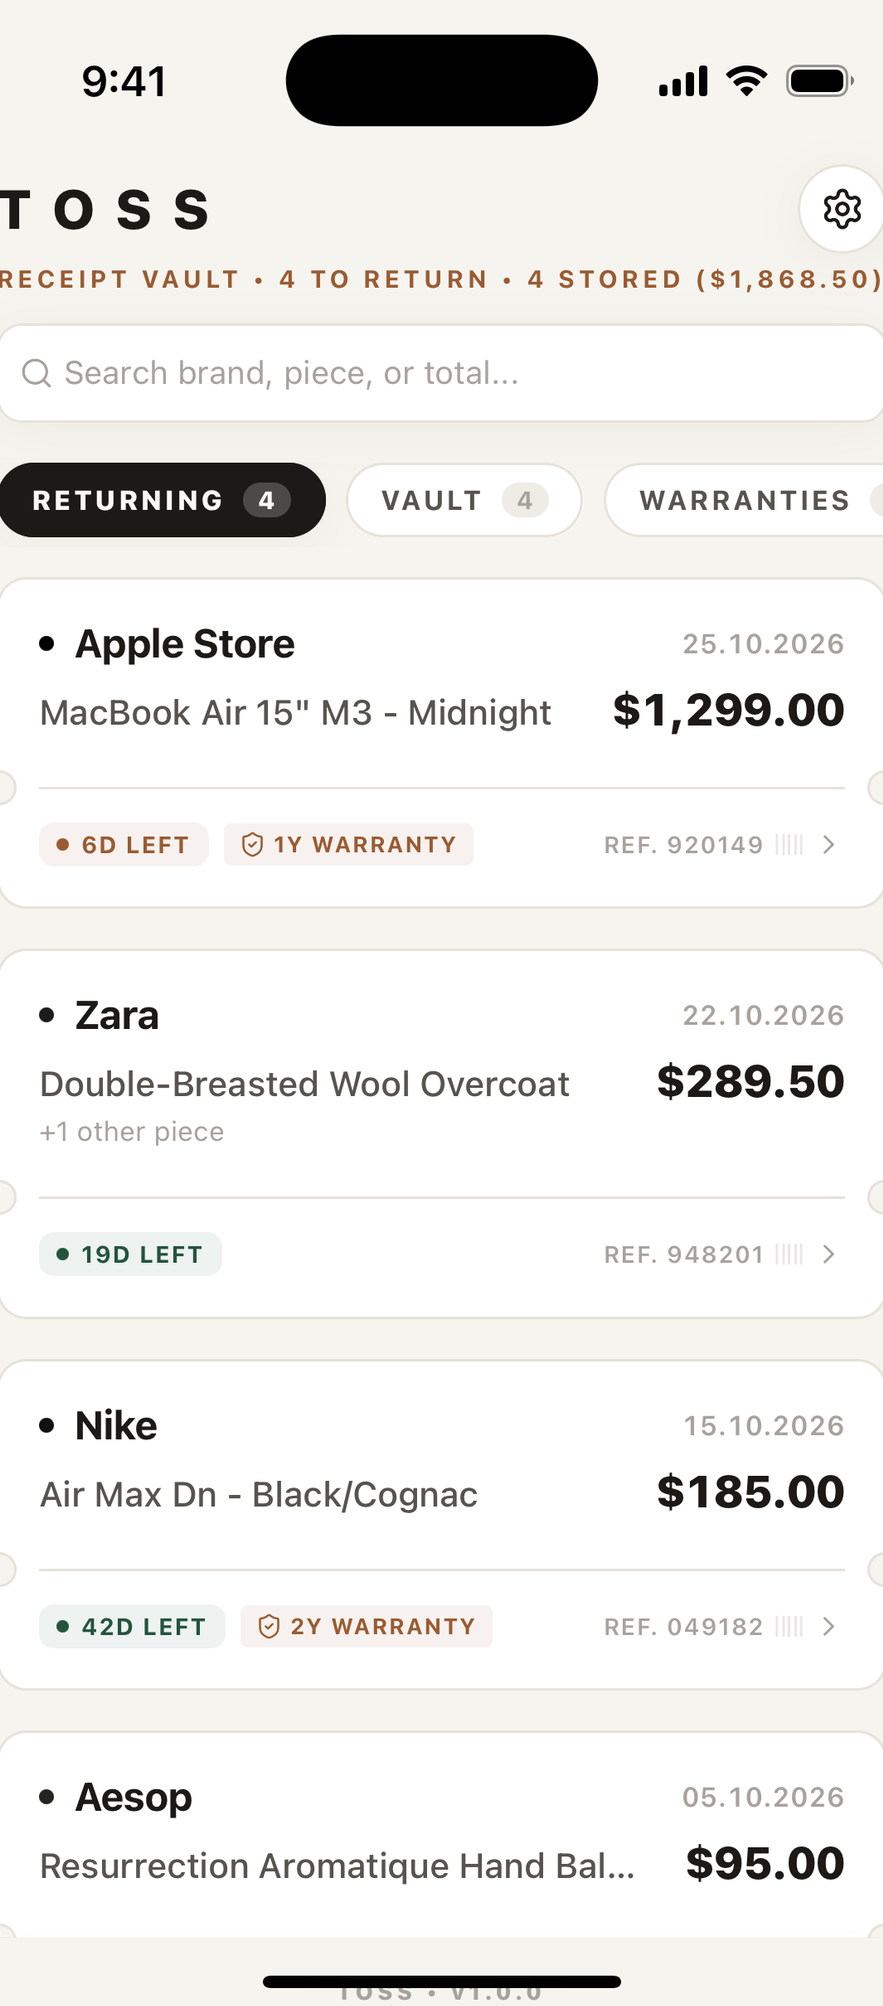
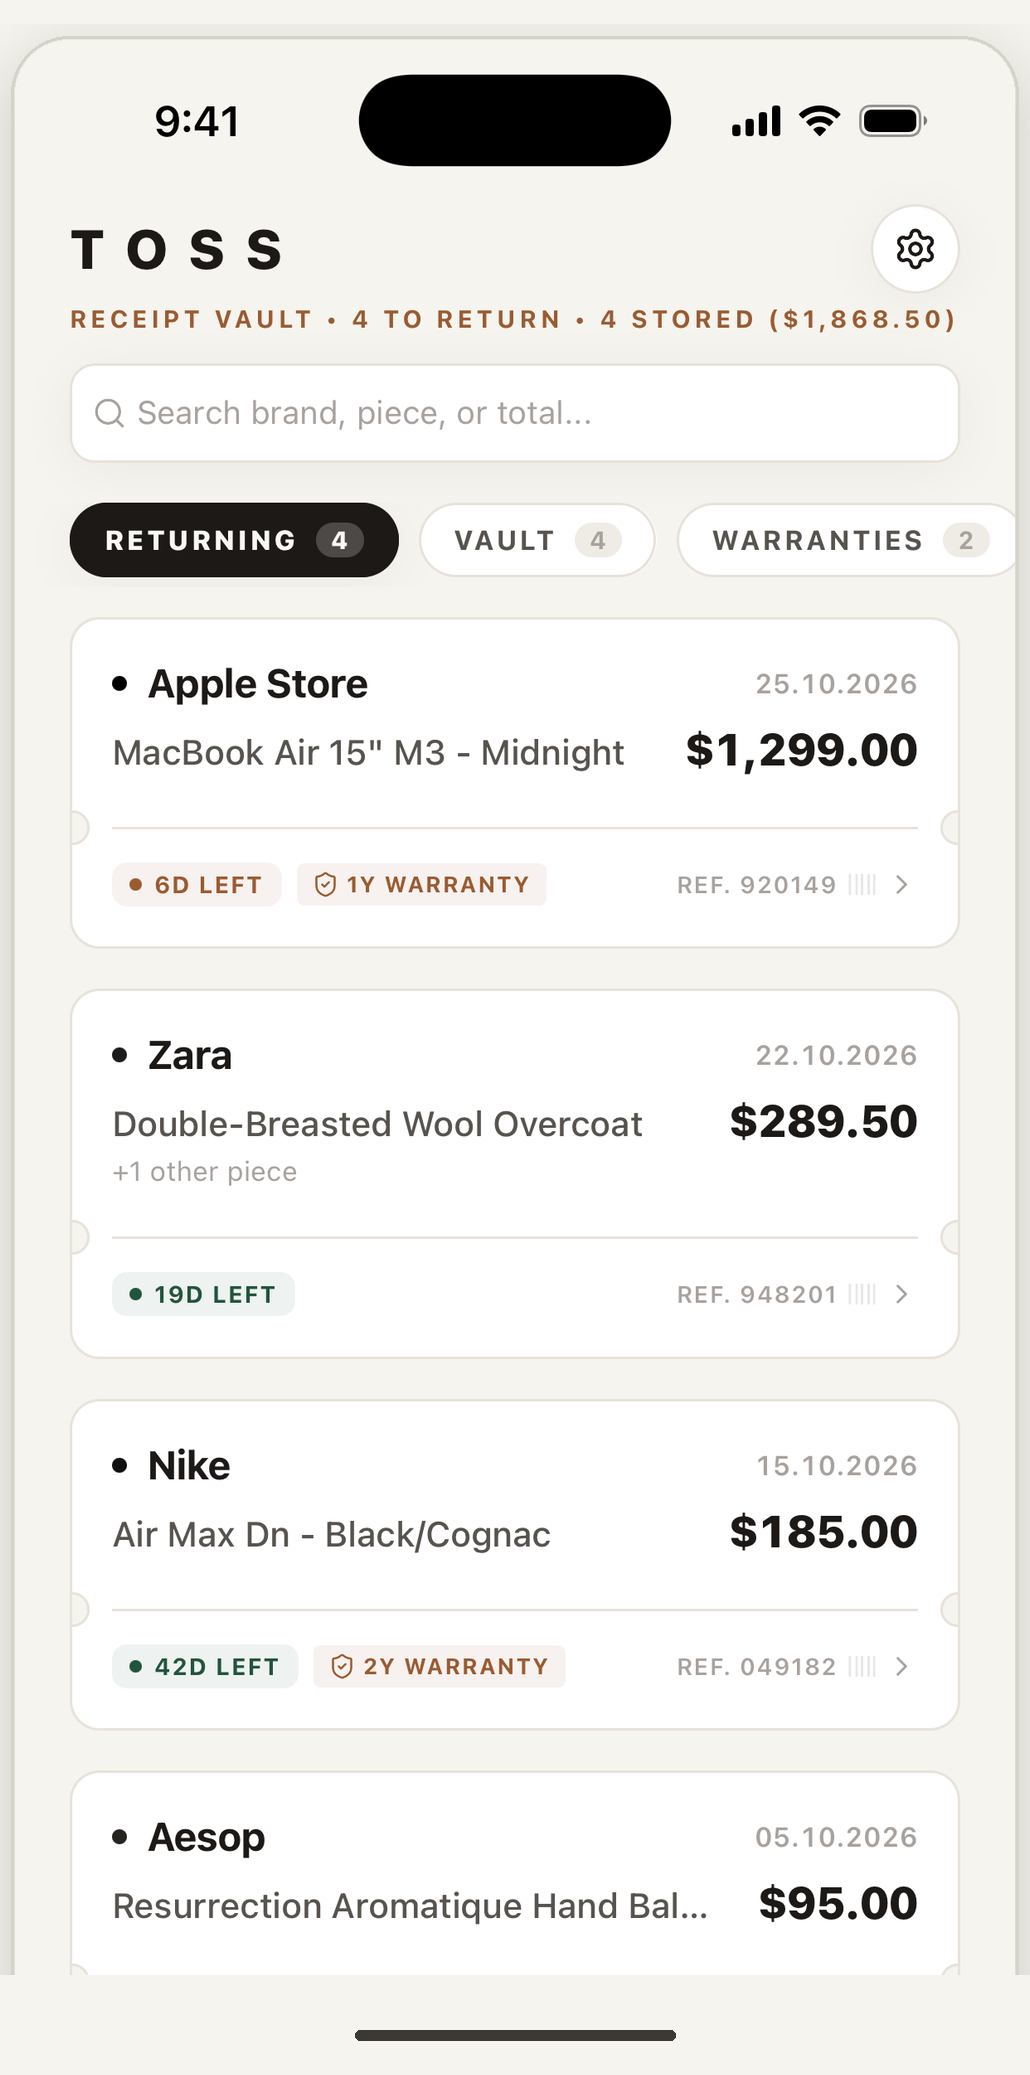
feat(toss): switch 2nd mockup to Counter Mode barcode screen and restore uncropped full-bleed framing on 1st mockup

diff --git a/index.html b/index.html
@@ -522,13 +522,13 @@
               </svg>
             </div>
 
-            <!-- PHONE 2: STEP 2 RETURN COUNTDOWNS -->
+            <!-- PHONE 2: STEP 2 RETURN BARCODE & DETAILS -->
             <div class="relative z-10 shrink-0">
               <div class="absolute -top-3.5 -right-2 bg-white border-2 border-[#0A0A0A] rounded-lg px-2.5 py-0.5 shadow-brutal-sm z-30 text-[10px] font-mono font-bold text-[#0A0A0A] rotate-2">
-                2 · Return Alerts
+                2 · Barcode & Details
               </div>
               <div class="w-32 sm:w-44 overflow-hidden rounded-[20px] sm:rounded-[24px] border-2 border-[#0A0A0A] shadow-brutal-sm bg-white">
-                <img src="./assets/toss/crop_2.png" alt="Toss - Return Window Countdowns" class="w-full h-auto block" loading="lazy">
+                <img src="./assets/toss/crop_2.png" alt="Toss - Return Barcode & Receipt Details" class="w-full h-auto block" loading="lazy">
               </div>
             </div>
 
